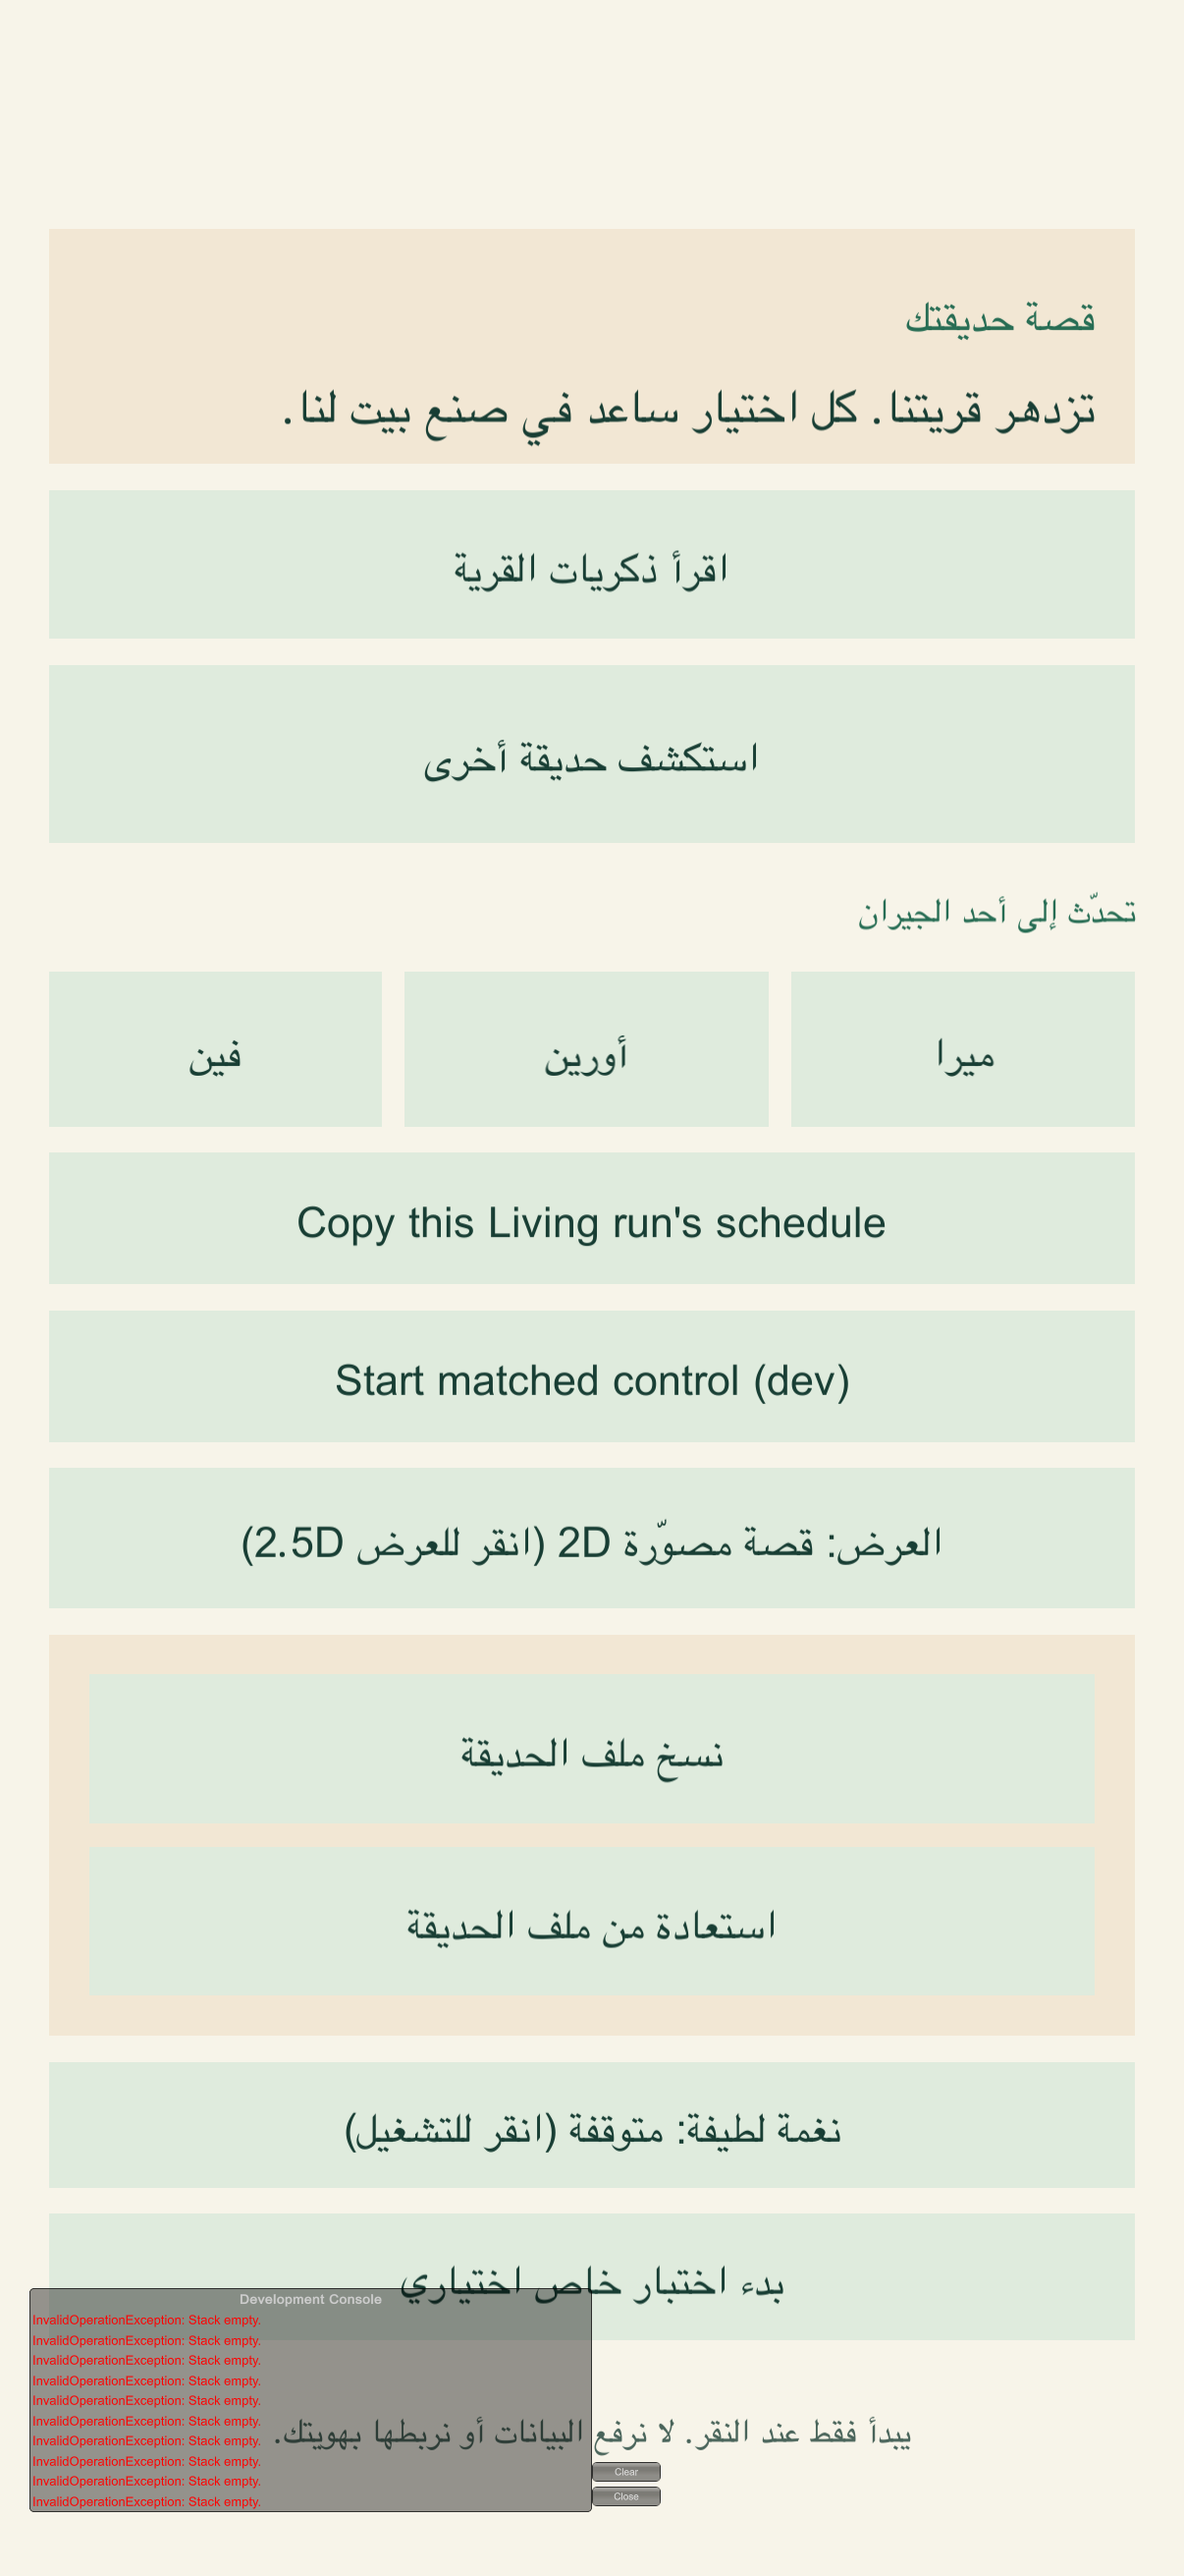
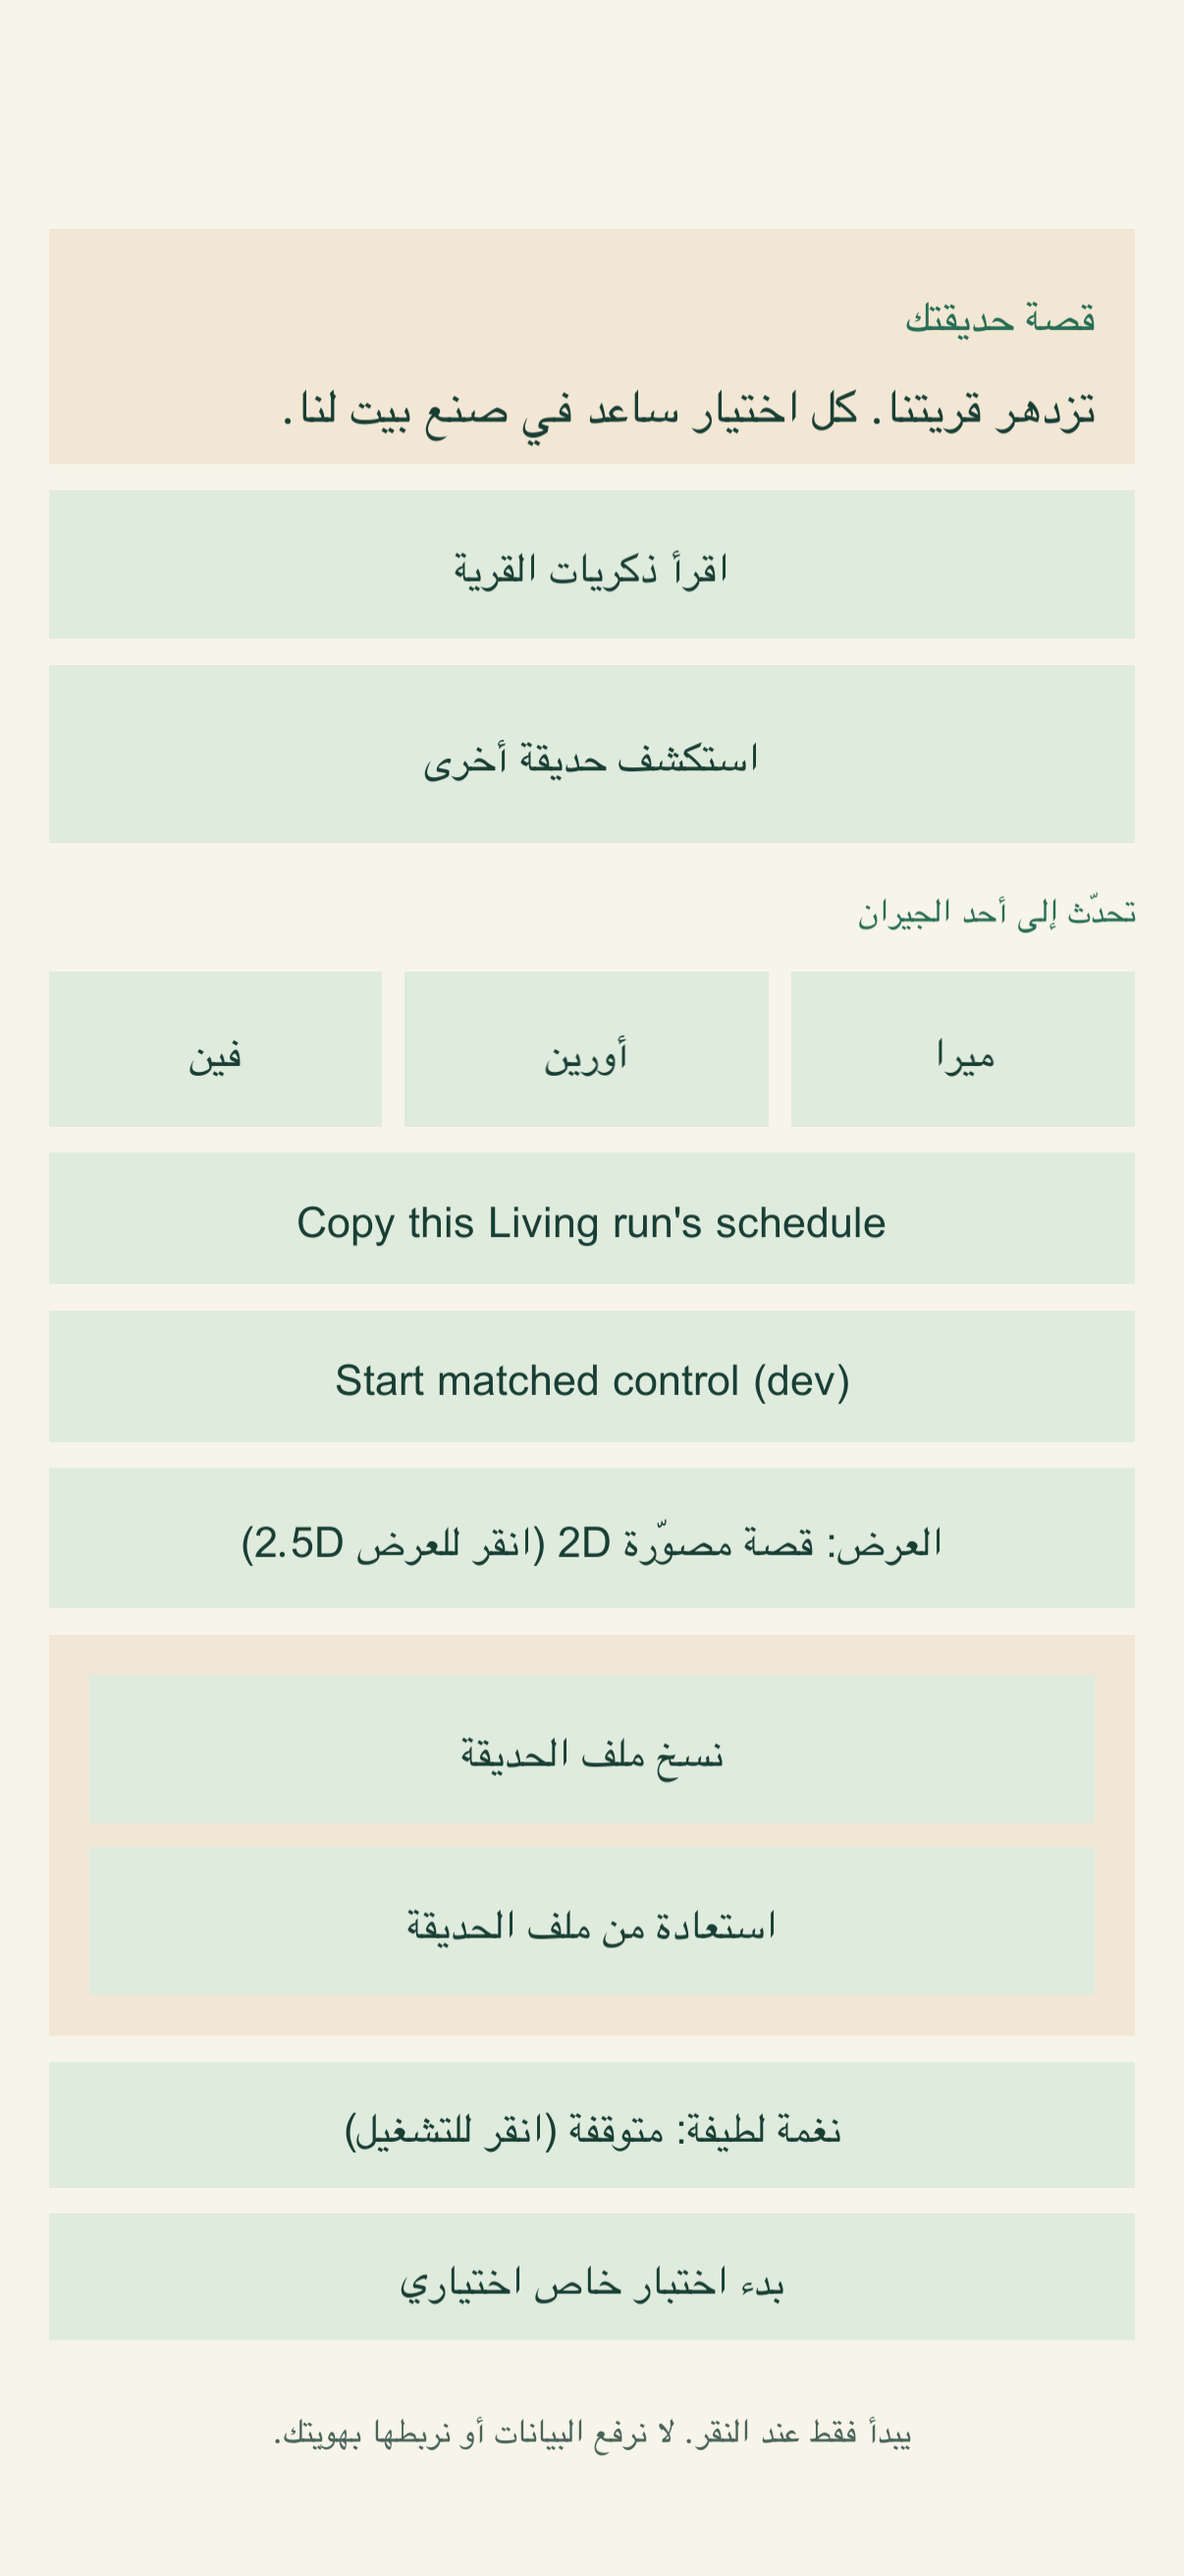
fix(evergrove): RTL text threw "Stack empty" on every multi-line label
BidiSharp empties its embedding stack on paragraph separators, so every
multi-line Arabic/Hebrew label threw each frame. Reorder line by line
(UAX #9 paragraphs are independent) and fall back to shaped logical
text instead of throwing. A fuzz probe over all ar/fa/ur/he catalog
strings goes from 404/1,616 failures to 0; add a regression test and
replace the ar QA captures with a clean rebuilt tour.

Changed region(s): [[0.0, 0.865, 0.5522, 0.9886]]

diff --git a/games/evergrove/Assets/Scripts/Core/RtlText.cs b/games/evergrove/Assets/Scripts/Core/RtlText.cs
@@ -32,9 +32,33 @@ namespace Evergrove.Core
         public static string Visual(string logicalLine)
         {
             if (string.IsNullOrEmpty(logicalLine)) return logicalLine ?? "";
-            string shaped = ArabicShaper.Shape(logicalLine);
-            int level = ContainsRtlLetter(logicalLine) ? RtlParagraphLevel : 0;
-            return Bidi.LogicalToVisual(shaped, null, level);
+            // UAX #9 treats each paragraph independently, and the vendored
+            // BidiSharp empties its embedding stack on a paragraph separator
+            // ("Stack empty" on every multi-line label), so reorder line by line.
+            if (logicalLine.IndexOf('\n') >= 0 || logicalLine.IndexOf('\r') >= 0)
+            {
+                string[] lines = logicalLine.Replace("\r\n", "\n").Replace('\r', '\n').Split('\n');
+                for (int i = 0; i < lines.Length; i++) lines[i] = VisualLine(lines[i]);
+                return string.Join("\n", lines);
+            }
+            return VisualLine(logicalLine);
+        }
+
+        private static string VisualLine(string line)
+        {
+            if (line.Length == 0) return line;
+            string shaped = ArabicShaper.Shape(line);
+            int level = ContainsRtlLetter(line) ? RtlParagraphLevel : 0;
+            try
+            {
+                return Bidi.LogicalToVisual(shaped, null, level);
+            }
+            catch (InvalidOperationException)
+            {
+                // Never blank or spam a label because of a reordering edge case:
+                // show the shaped logical text instead.
+                return shaped;
+            }
         }
 
         // Hebrew, Arabic, Arabic Supplement, Arabic Presentation Forms-A and -B.

diff --git a/games/evergrove/Tests/Program.cs b/games/evergrove/Tests/Program.cs
@@ -700,6 +700,17 @@ internal static class Program
         Expect(RtlText.IsRtlScriptLocale("ar") && RtlText.IsRtlScriptLocale("fa") &&
                RtlText.IsRtlScriptLocale("ur") && RtlText.IsRtlScriptLocale("he"),
             "ar, fa, ur and he use RTL text preparation");
+
+        // Regression: multi-line labels threw "Stack empty" in BidiSharp on every frame.
+        string first = "ذكرى جديدة في القرية", second = "الفصل 1 · ميرا";
+        string multi = null;
+        bool threw = false;
+        try { multi = RtlText.Visual(first + "\n" + second); } catch (Exception) { threw = true; }
+        Expect(!threw, "multi-line RTL text does not throw");
+        Expect(multi == RtlText.Visual(first) + "\n" + RtlText.Visual(second),
+            "multi-line RTL text is reordered line by line");
+        Expect(RtlText.Visual("שלום\r\nעולם") == RtlText.Visual("שלום") + "\n" + RtlText.Visual("עולם"),
+            "CRLF line endings are handled per line");
         Expect(!RtlText.IsRtlScriptLocale("ja") && !RtlText.IsRtlScriptLocale("en") &&
                !RtlText.IsRtlScriptLocale("hi"), "other locales skip RTL preparation");
 

diff --git a/games/evergrove/docs/specs/proposals/eg-006-text-spike-2026-11-23.md b/games/evergrove/docs/specs/proposals/eg-006-text-spike-2026-11-23.md
@@ -230,3 +230,7 @@ Not measured. Expected: about 65 K bytes of byte-table data from BidiSharp, plus
 - Persian and Urdu need a run and a native read before any claim.
 - IL2CPP on Android was not built in this session.
 - Complex-script locales stay off the shipping allowlist.
+
+### Lead review of iteration 4 (2026-11-23)
+
+The first iteration-4 build spammed `InvalidOperationException: Stack empty` in the dev console on Arabic screens. The agent's report did not mention it. A fuzz probe over every ar/fa/ur/he catalog string reproduced it: **404 of 1,616 inputs threw**, exactly the multi-line ones. The vendored BidiSharp empties its embedding stack on a paragraph separator. **Fix:** `RtlText.Visual` now reorders line by line (UAX #9 treats paragraphs independently) and falls back to the shaped logical text instead of throwing. After the fix the probe reports 0 of 1,616 failures, and a regression test was added. A rebuilt iOS Simulator Arabic tour shows no exception console, and its screenshots replaced the earlier ar captures.
